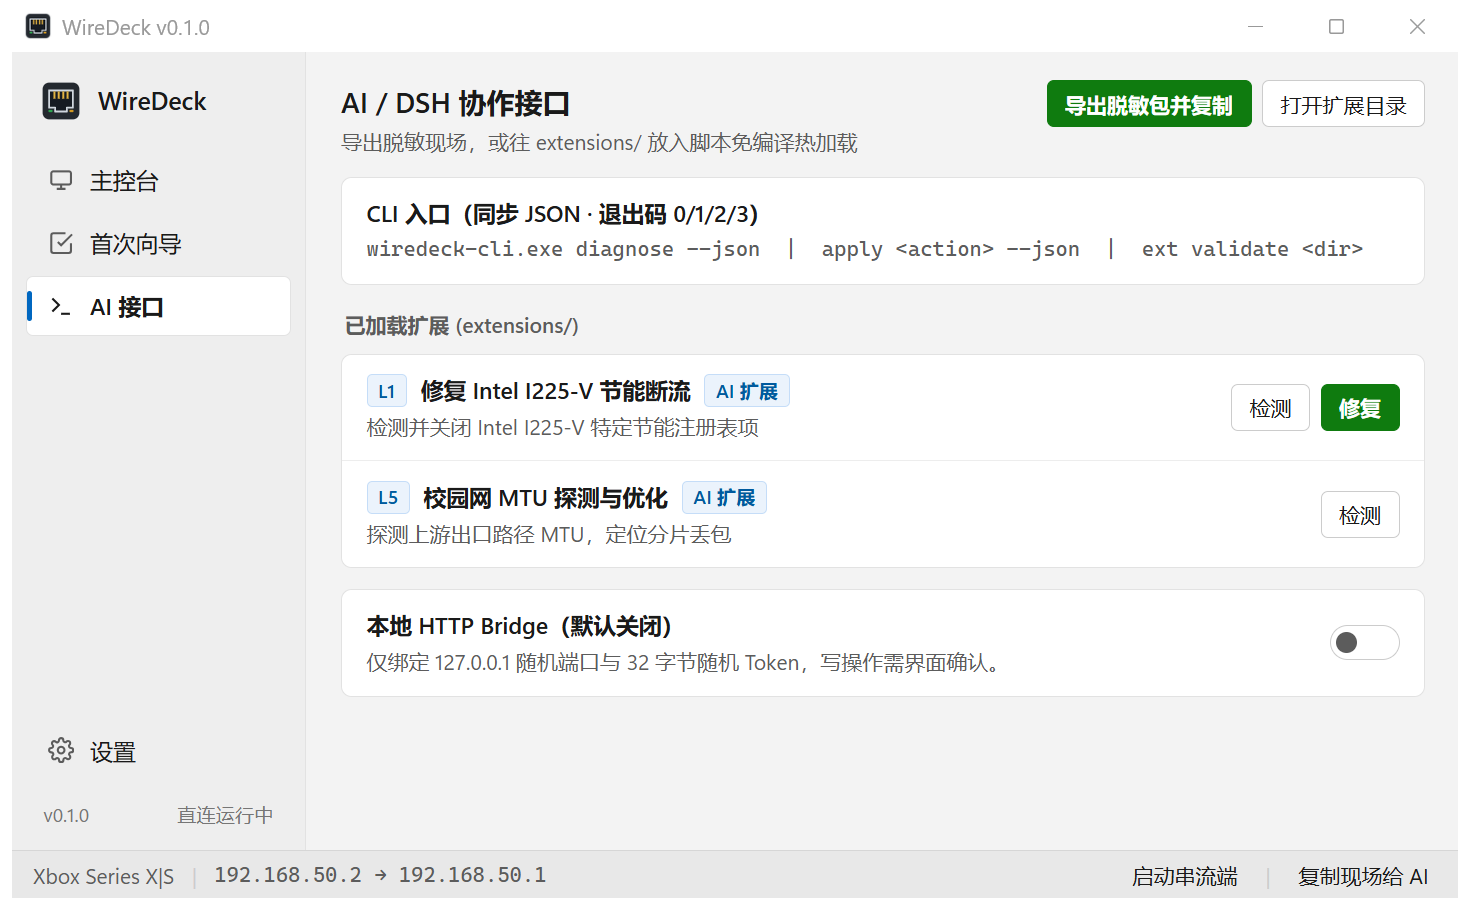
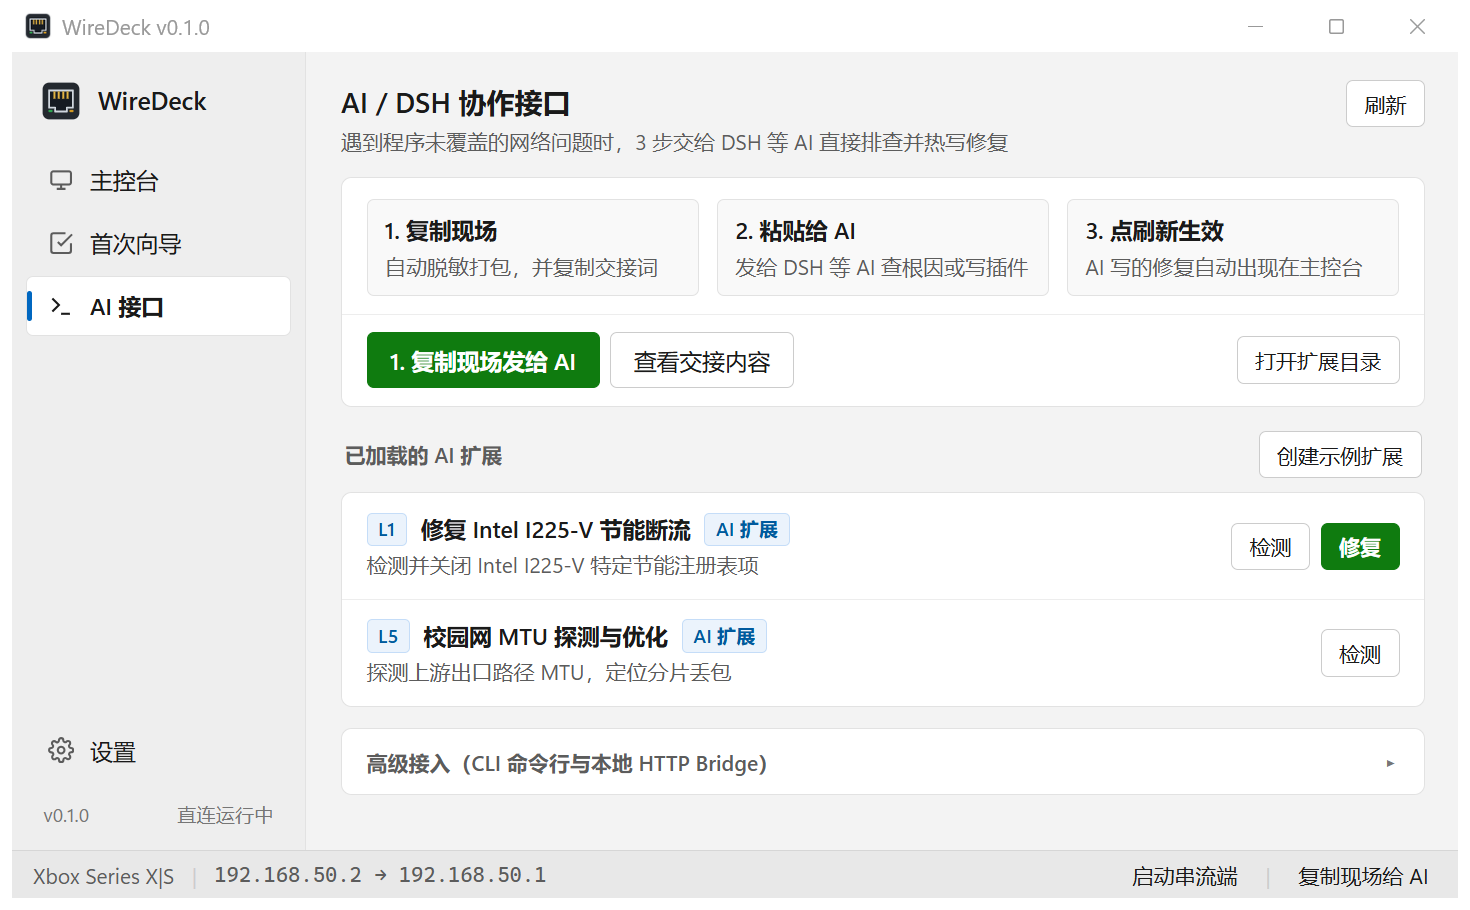
fix(installer,ui): eliminate high-DPI checkbox clipping and streamline AI first-time onboarding

diff --git a/src/wiredeck/web/index.html b/src/wiredeck/web/index.html
@@ -161,31 +161,55 @@
           <div class="page-head">
             <div>
               <div class="page-title" data-i18n="ai_title">AI / DSH 协作接口</div>
-              <div class="page-sub" data-i18n="ai_sub">导出脱敏现场，或往 extensions/ 放入脚本免编译热加载</div>
+              <div class="page-sub" data-i18n="ai_sub">遇到程序未覆盖的网络问题时，3 步交给 DSH 等 AI 直接排查并热写修复</div>
             </div>
-            <div class="row-actions">
-              <button class="btn btn-sm btn-primary" id="btnAiExportCopy" type="button" data-i18n="ai_copy_btn">导出脱敏包并复制</button>
-              <button class="btn btn-sm" id="btnOpenExtFolder" type="button" data-i18n="ai_open_ext">打开扩展目录</button>
-            </div>
+            <button class="btn btn-sm" id="btnAiRefresh" type="button" data-i18n="btn_refresh">刷新</button>
           </div>
 
           <div class="group-box">
-            <div class="list-row">
-              <div class="list-row-col">
-                <div class="row-head">CLI 入口（同步 JSON · 退出码 0/1/2/3）</div>
-                <div class="row-desc mono">wiredeck-cli.exe diagnose --json &nbsp;|&nbsp; apply &lt;action&gt; --json &nbsp;|&nbsp; ext validate &lt;dir&gt;</div>
+            <div class="ai-steps">
+              <div class="ai-step">
+                <div class="ai-step-t" data-i18n="ai_step1_t">1. 复制现场</div>
+                <div class="ai-step-d" data-i18n="ai_step1_d">自动脱敏打包，并复制交接词</div>
+              </div>
+              <div class="ai-step">
+                <div class="ai-step-t" data-i18n="ai_step2_t">2. 粘贴给 AI</div>
+                <div class="ai-step-d" data-i18n="ai_step2_d">发给 DSH 等 AI 查根因或写插件</div>
+              </div>
+              <div class="ai-step">
+                <div class="ai-step-t" data-i18n="ai_step3_t">3. 点刷新生效</div>
+                <div class="ai-step-d" data-i18n="ai_step3_d">AI 写的修复自动出现在主控台</div>
               </div>
             </div>
+            <div class="ai-cta-bar">
+              <div class="row-actions">
+                <button class="btn btn-primary" id="btnAiExportCopy" type="button" data-i18n="ai_copy_btn">1. 复制现场发给 AI</button>
+                <button class="btn" id="btnAiPreviewPrompt" type="button" data-i18n="ai_preview_btn">查看交接内容</button>
+              </div>
+              <button class="btn btn-sm" id="btnOpenExtFolder" type="button" data-i18n="ai_open_ext">打开扩展目录</button>
+            </div>
+            <div id="aiPromptPreview" class="ai-prompt-box mono" style="display:none;"></div>
           </div>
 
-          <div class="sec-label" data-i18n="ai_ext_heading">已加载扩展 (extensions/)</div>
+          <div class="sec-row">
+            <span class="sec-label" style="margin:0;" data-i18n="ai_ext_heading">已加载的 AI 扩展</span>
+            <button class="btn btn-sm" id="btnCreateSampleExt" type="button" data-i18n="ai_create_sample">创建示例扩展</button>
+          </div>
           <div class="group-box" id="extList"></div>
 
-          <div class="group-box">
+          <details class="adv-box" id="aiAdvancedBox">
+            <summary data-i18n="ai_adv_summary">高级接入（CLI 命令行与本地 HTTP Bridge）</summary>
+            <div class="list-row">
+              <div class="list-row-col">
+                <div class="row-head" data-i18n="ai_cli_title">无头 CLI（供终端 / DSH 直接调用）</div>
+                <div class="row-desc mono">wiredeck-cli.exe diagnose --json &nbsp;|&nbsp; apply &lt;action&gt; --json</div>
+              </div>
+              <button class="btn btn-sm" id="btnCopyCliCmd" type="button" data-i18n="ai_copy_cli">复制诊断命令</button>
+            </div>
             <div class="list-row" style="border-bottom:none;">
               <div class="list-row-col">
                 <div class="row-head" data-i18n="ai_bridge_heading">本地 HTTP Bridge（默认关闭）</div>
-                <div class="row-desc" data-i18n="ai_bridge_desc">仅绑定 127.0.0.1 随机端口与 32 字节随机 Token，写操作需界面确认。</div>
+                <div class="row-desc" data-i18n="ai_bridge_desc">仅监听 127.0.0.1 随机端口与随机 Token，特权写操作仍需界面确认。</div>
               </div>
               <label class="win-switch">
                 <input type="checkbox" id="bridgeToggle" />
@@ -199,7 +223,7 @@
                 <button class="btn btn-sm" id="btnCopyToken" type="button" data-i18n="ai_bridge_copy">复制 Token</button>
               </div>
             </div>
-          </div>
+          </details>
         </section>
 
         <!-- VIEW 4: SETTINGS (Native Page, no cramped modal) -->

diff --git a/src/wiredeck/web/i18n.js b/src/wiredeck/web/i18n.js
@@ -50,13 +50,26 @@ window.WIREDECK_I18N = {
     "wiz_test_peer": "测试连通",
     "wiz_headless_tip": "无显示器首次配置：可先借屏幕或采集卡 5 分钟打开「启用远程功能」。",
     "ai_title": "AI / DSH 协作接口",
-    "ai_sub": "导出脱敏现场，或往 extensions/ 放入脚本免编译热加载",
-    "ai_copy_btn": "导出脱敏包并复制",
+    "ai_sub": "遇到程序未覆盖的网络问题时，3 步交给 DSH 等 AI 直接排查并热写修复",
+    "ai_guide_title": "怎么让 AI 帮你修？（3 步上手）",
+    "ai_step1_t": "1. 复制现场",
+    "ai_step1_d": "自动脱敏打包，并复制交接词",
+    "ai_step2_t": "2. 粘贴给 AI",
+    "ai_step2_d": "发给 DSH 等 AI 查根因或写插件",
+    "ai_step3_t": "3. 点刷新生效",
+    "ai_step3_d": "AI 写的修复自动出现在主控台",
+    "ai_copy_btn": "1. 复制现场发给 AI",
+    "ai_preview_btn": "查看交接内容",
     "ai_open_ext": "打开扩展目录",
-    "ai_ext_heading": "已加载扩展 (extensions/)",
-    "ai_ext_empty": "暂无扩展。将 ext.json 与 .ps1 放入扩展目录后点击刷新即可生效。",
+    "ai_copied_hint": "已复制到剪贴板，现在直接 Ctrl+V 发给你的 AI 助手即可。",
+    "ai_ext_heading": "已加载的 AI 扩展",
+    "ai_ext_empty": "还没有扩展。让 AI 排查并写入插件，或先点右侧创建一个只读示例看看效果。",
+    "ai_create_sample": "创建示例扩展",
+    "ai_adv_summary": "高级接入（CLI 命令行与本地 HTTP Bridge）",
+    "ai_cli_title": "无头 CLI（供终端 / DSH 直接调用）",
+    "ai_copy_cli": "复制诊断命令",
     "ai_bridge_heading": "本地 HTTP Bridge（默认关闭）",
-    "ai_bridge_desc": "仅绑定 127.0.0.1 随机端口与 32 字节随机 Token，写操作需界面确认。",
+    "ai_bridge_desc": "仅监听 127.0.0.1 随机端口与随机 Token，特权写操作仍需界面确认。",
     "ai_bridge_copy": "复制 Token",
     "ai_run_check": "检测",
     "ai_run_fix": "修复",
@@ -135,14 +148,27 @@ window.WIREDECK_I18N = {
     "wiz_copy_params": "Copy IP",
     "wiz_test_peer": "Test Ping",
     "wiz_headless_tip": "Headless first setup: borrow a screen or capture card for 5 min to enable Remote Features.",
-    "ai_title": "AI / DSH Integration",
-    "ai_sub": "Export sanitized snapshots or drop hot-reload scripts into extensions/",
-    "ai_copy_btn": "Export & Copy Prompt",
+    "ai_title": "AI / DSH Assistant Port",
+    "ai_sub": "Hit an unfamiliar network snag? Hand it to DSH or any local AI in 3 steps",
+    "ai_guide_title": "How to use with AI (3 simple steps)",
+    "ai_step1_t": "1. Copy Snapshot",
+    "ai_step1_d": "Exports redacted JSON & handoff prompt",
+    "ai_step2_t": "2. Paste to AI",
+    "ai_step2_d": "Send to DSH / coding AI to diagnose or patch",
+    "ai_step3_t": "3. Click Refresh",
+    "ai_step3_d": "New fix appears automatically on Overview",
+    "ai_copy_btn": "1. Copy Context for AI",
+    "ai_preview_btn": "Preview Prompt",
     "ai_open_ext": "Open Folder",
-    "ai_ext_heading": "Loaded Extensions (extensions/)",
-    "ai_ext_empty": "No extensions found. Add ext.json + .ps1 to extensions/ and refresh.",
+    "ai_copied_hint": "Copied to clipboard. Press Ctrl+V to send directly to your AI assistant.",
+    "ai_ext_heading": "Loaded AI Extensions",
+    "ai_ext_empty": "No extensions yet. Ask AI to write one, or create a safe read-only sample to try it out.",
+    "ai_create_sample": "Create Sample",
+    "ai_adv_summary": "Advanced (CLI Commands & Local HTTP Bridge)",
+    "ai_cli_title": "Headless CLI (for terminals & DSH)",
+    "ai_copy_cli": "Copy Command",
     "ai_bridge_heading": "Local HTTP Bridge (OFF by default)",
-    "ai_bridge_desc": "Binds 127.0.0.1 ephemeral port with 32-byte Bearer token; writes require approval.",
+    "ai_bridge_desc": "Binds 127.0.0.1 ephemeral port with random Bearer token; writes require approval.",
     "ai_bridge_copy": "Copy Token",
     "ai_run_check": "Check",
     "ai_run_fix": "Fix",

diff --git a/src/wiredeck/web/app.js b/src/wiredeck/web/app.js
@@ -471,13 +471,20 @@
     return false;
   }
 
-  async function exportAndCopyAi() {
+  async function exportAndCopyAi(showPreview) {
     const api = getApi();
     if (!api) return;
     const res = await api.export_for_ai();
     if (res.ok) {
       await copyText(res.prompt);
-      showToast(t("toast_copied"));
+      const box = document.getElementById("aiPromptPreview");
+      if (box) {
+        box.textContent = res.prompt;
+        if (showPreview) {
+          box.style.display = "block";
+        }
+      }
+      showToast(t("ai_copied_hint"));
     } else {
       showToast(res.message || "Export failed");
     }
@@ -490,11 +497,38 @@
 
     document.getElementById("btnRefresh").addEventListener("click", () => refreshAll(false));
     document.getElementById("btnWizRefresh").addEventListener("click", () => refreshAll(false));
+    document.getElementById("btnAiRefresh").addEventListener("click", () => refreshAll(false));
 
     document.getElementById("btnEnableDirect").addEventListener("click", () => runAction("enable-direct", {}));
     document.getElementById("btnDisableDirect").addEventListener("click", () => runAction("disable-direct", {}));
-    document.getElementById("btnCopyAiQuick").addEventListener("click", exportAndCopyAi);
-    document.getElementById("btnAiExportCopy").addEventListener("click", exportAndCopyAi);
+    document.getElementById("btnCopyAiQuick").addEventListener("click", () => exportAndCopyAi(false));
+    document.getElementById("btnAiExportCopy").addEventListener("click", () => exportAndCopyAi(true));
+    document.getElementById("btnAiPreviewPrompt").addEventListener("click", async () => {
+      const box = document.getElementById("aiPromptPreview");
+      if (box.style.display === "block") {
+        box.style.display = "none";
+        return;
+      }
+      if (!box.textContent.trim()) {
+        const api = getApi();
+        if (api) {
+          const res = await api.export_for_ai();
+          if (res.ok) box.textContent = res.prompt;
+        }
+      }
+      box.style.display = "block";
+    });
+    document.getElementById("btnCreateSampleExt").addEventListener("click", async () => {
+      const api = getApi();
+      if (!api) return;
+      const res = await api.create_sample_extension();
+      showToast(res.message || "OK");
+      await refreshAll(true);
+    });
+    document.getElementById("btnCopyCliCmd").addEventListener("click", async () => {
+      await copyText("wiredeck-cli.exe diagnose --json");
+      showToast(t("toast_copied"));
+    });
 
     const launchFn = async () => {
       const api = getApi();

diff --git a/src/wiredeck/web/app.css b/src/wiredeck/web/app.css
@@ -623,6 +623,92 @@ select:focus, input:focus {
   font-size: 12px;
 }
 
+/* AI First-Time 3-Step Guide & Native Expander */
+.ai-steps {
+  display: grid;
+  grid-template-columns: repeat(3, 1fr);
+  gap: 10px;
+  padding: 12px 14px 10px;
+  border-bottom: 1px solid var(--divider);
+}
+.ai-step {
+  background: var(--surface-subtle);
+  border: 1px solid var(--border);
+  border-radius: 4px;
+  padding: 8px 10px;
+}
+.ai-step-t {
+  font-size: 13px;
+  font-weight: 600;
+  color: var(--text);
+}
+.ai-step-d {
+  font-size: 12px;
+  color: var(--text-sec);
+  margin-top: 2px;
+}
+
+.ai-cta-bar {
+  display: flex;
+  align-items: center;
+  justify-content: space-between;
+  gap: 10px;
+  padding: 10px 14px;
+}
+
+.ai-prompt-box {
+  margin: 0 14px 12px;
+  padding: 9px 11px;
+  background: var(--code-bg);
+  border: 1px solid var(--border);
+  border-radius: 4px;
+  font-size: 12px;
+  color: var(--text);
+  white-space: pre-wrap;
+  word-break: break-all;
+  max-height: 112px;
+  overflow-y: auto;
+  user-select: text;
+}
+
+.sec-row {
+  display: flex;
+  align-items: center;
+  justify-content: space-between;
+  margin: 2px 2px -4px;
+}
+
+details.adv-box {
+  background: var(--surface);
+  border: 1px solid var(--border);
+  border-radius: 6px;
+  overflow: hidden;
+}
+details.adv-box > summary {
+  list-style: none;
+  cursor: pointer;
+  padding: 10px 14px;
+  font-size: 12px;
+  font-weight: 600;
+  color: var(--text-sec);
+  display: flex;
+  align-items: center;
+  justify-content: space-between;
+}
+details.adv-box > summary::-webkit-details-marker { display: none; }
+details.adv-box > summary::after {
+  content: "▸";
+  font-size: 12px;
+  color: var(--text-muted);
+}
+details.adv-box[open] > summary {
+  border-bottom: 1px solid var(--divider);
+  color: var(--text);
+}
+details.adv-box[open] > summary::after {
+  content: "▾";
+}
+
 /* Classic Desktop Bottom Status Bar */
 .statusbar {
   height: 28px;

diff --git a/src/wiredeck/app.py b/src/wiredeck/app.py
@@ -309,6 +309,50 @@ class WireDeckApi:
             return {"status": "fail", "code": "EXT_NOT_FOUND", "message": f"未找到扩展 {ext_id}"}
         return run_extension(m, mode="check").to_dict()
 
+    def create_sample_extension(self) -> dict[str, Any]:
+        """Create a harmless read-only example extension so first-time users can see hot-reload work."""
+        ext_dir = self.paths.extensions_dir / "sample-dns-check"
+        manifest_path = ext_dir / "ext.json"
+        script_path = ext_dir / "check.ps1"
+        if manifest_path.is_file() and script_path.is_file():
+            return {
+                "ok": True,
+                "created": False,
+                "ext_id": "sample-dns-check",
+                "message": "示例扩展已存在，可直接点「检测」体验",
+            }
+        ext_dir.mkdir(parents=True, exist_ok=True)
+        manifest = {
+            "schema": "wiredeck-ext/v1",
+            "id": "sample-dns-check",
+            "name": "示例：公共 DNS 连通自检",
+            "author": "WireDeck",
+            "enabled": True,
+            "auto_check": False,
+            "layer": "L5",
+            "overrides_faults": [],
+            "requires_admin": False,
+            "timeout_sec": 5,
+            "check_script": "check.ps1",
+            "description": "只读示例扩展：检测 223.5.5.5 连通性，演示热加载插件写法（可随时在扩展目录删除）",
+        }
+        manifest_path.write_text(json.dumps(manifest, ensure_ascii=False, indent=2) + "\n", encoding="utf-8")
+        ps_code = (
+            "$ok = Test-Connection -ComputerName 223.5.5.5 -Count 1 -Quiet -ErrorAction SilentlyContinue\r\n"
+            "if ($ok) {\r\n"
+            "  Write-Output '{\"status\":\"ok\",\"code\":\"SAMPLE_DNS_OK\",\"title\":\"公共 DNS 正常\",\"message\":\"223.5.5.5 连通正常（示例扩展运行成功）\"}'\r\n"
+            "} else {\r\n"
+            "  Write-Output '{\"status\":\"warn\",\"code\":\"SAMPLE_DNS_TIMEOUT\",\"title\":\"公共 DNS 超时\",\"message\":\"无法 ping 通 223.5.5.5，可检查上游网络\"}'\r\n"
+            "}\r\n"
+        )
+        script_path.write_bytes(b"\xef\xbb\xbf" + ps_code.encode("utf-8"))
+        return {
+            "ok": True,
+            "created": True,
+            "ext_id": "sample-dns-check",
+            "message": "已创建只读示例扩展，点击下方「检测」即可体验",
+        }
+
     def toggle_bridge(self, enabled: bool) -> dict[str, Any]:
         if enabled:
             if self._bridge is None:

diff --git a/tests/test_gui_bridge.py b/tests/test_gui_bridge.py
@@ -60,6 +60,17 @@ def test_wiredeck_api_state_settings_export_and_bridge_toggle(tmp_path: Path):
     assert off_res["ok"] is True
     assert off_res["running"] is False
 
+    # Sample extension creation for first-time AI onboarding
+    sample = api.create_sample_extension()
+    assert sample["ok"] is True
+    assert sample["created"] is True
+    listed = api.list_extensions()
+    assert any(e["valid"] and e["manifest"]["id"] == "sample-dns-check" for e in listed)
+    # Second click is idempotent
+    sample2 = api.create_sample_extension()
+    assert sample2["ok"] is True
+    assert sample2["created"] is False
+
 
 def test_preview_states_are_deterministic_and_zero_pii():
     for mode in ("ready", "breakpoint", "wizard", "ai"):
